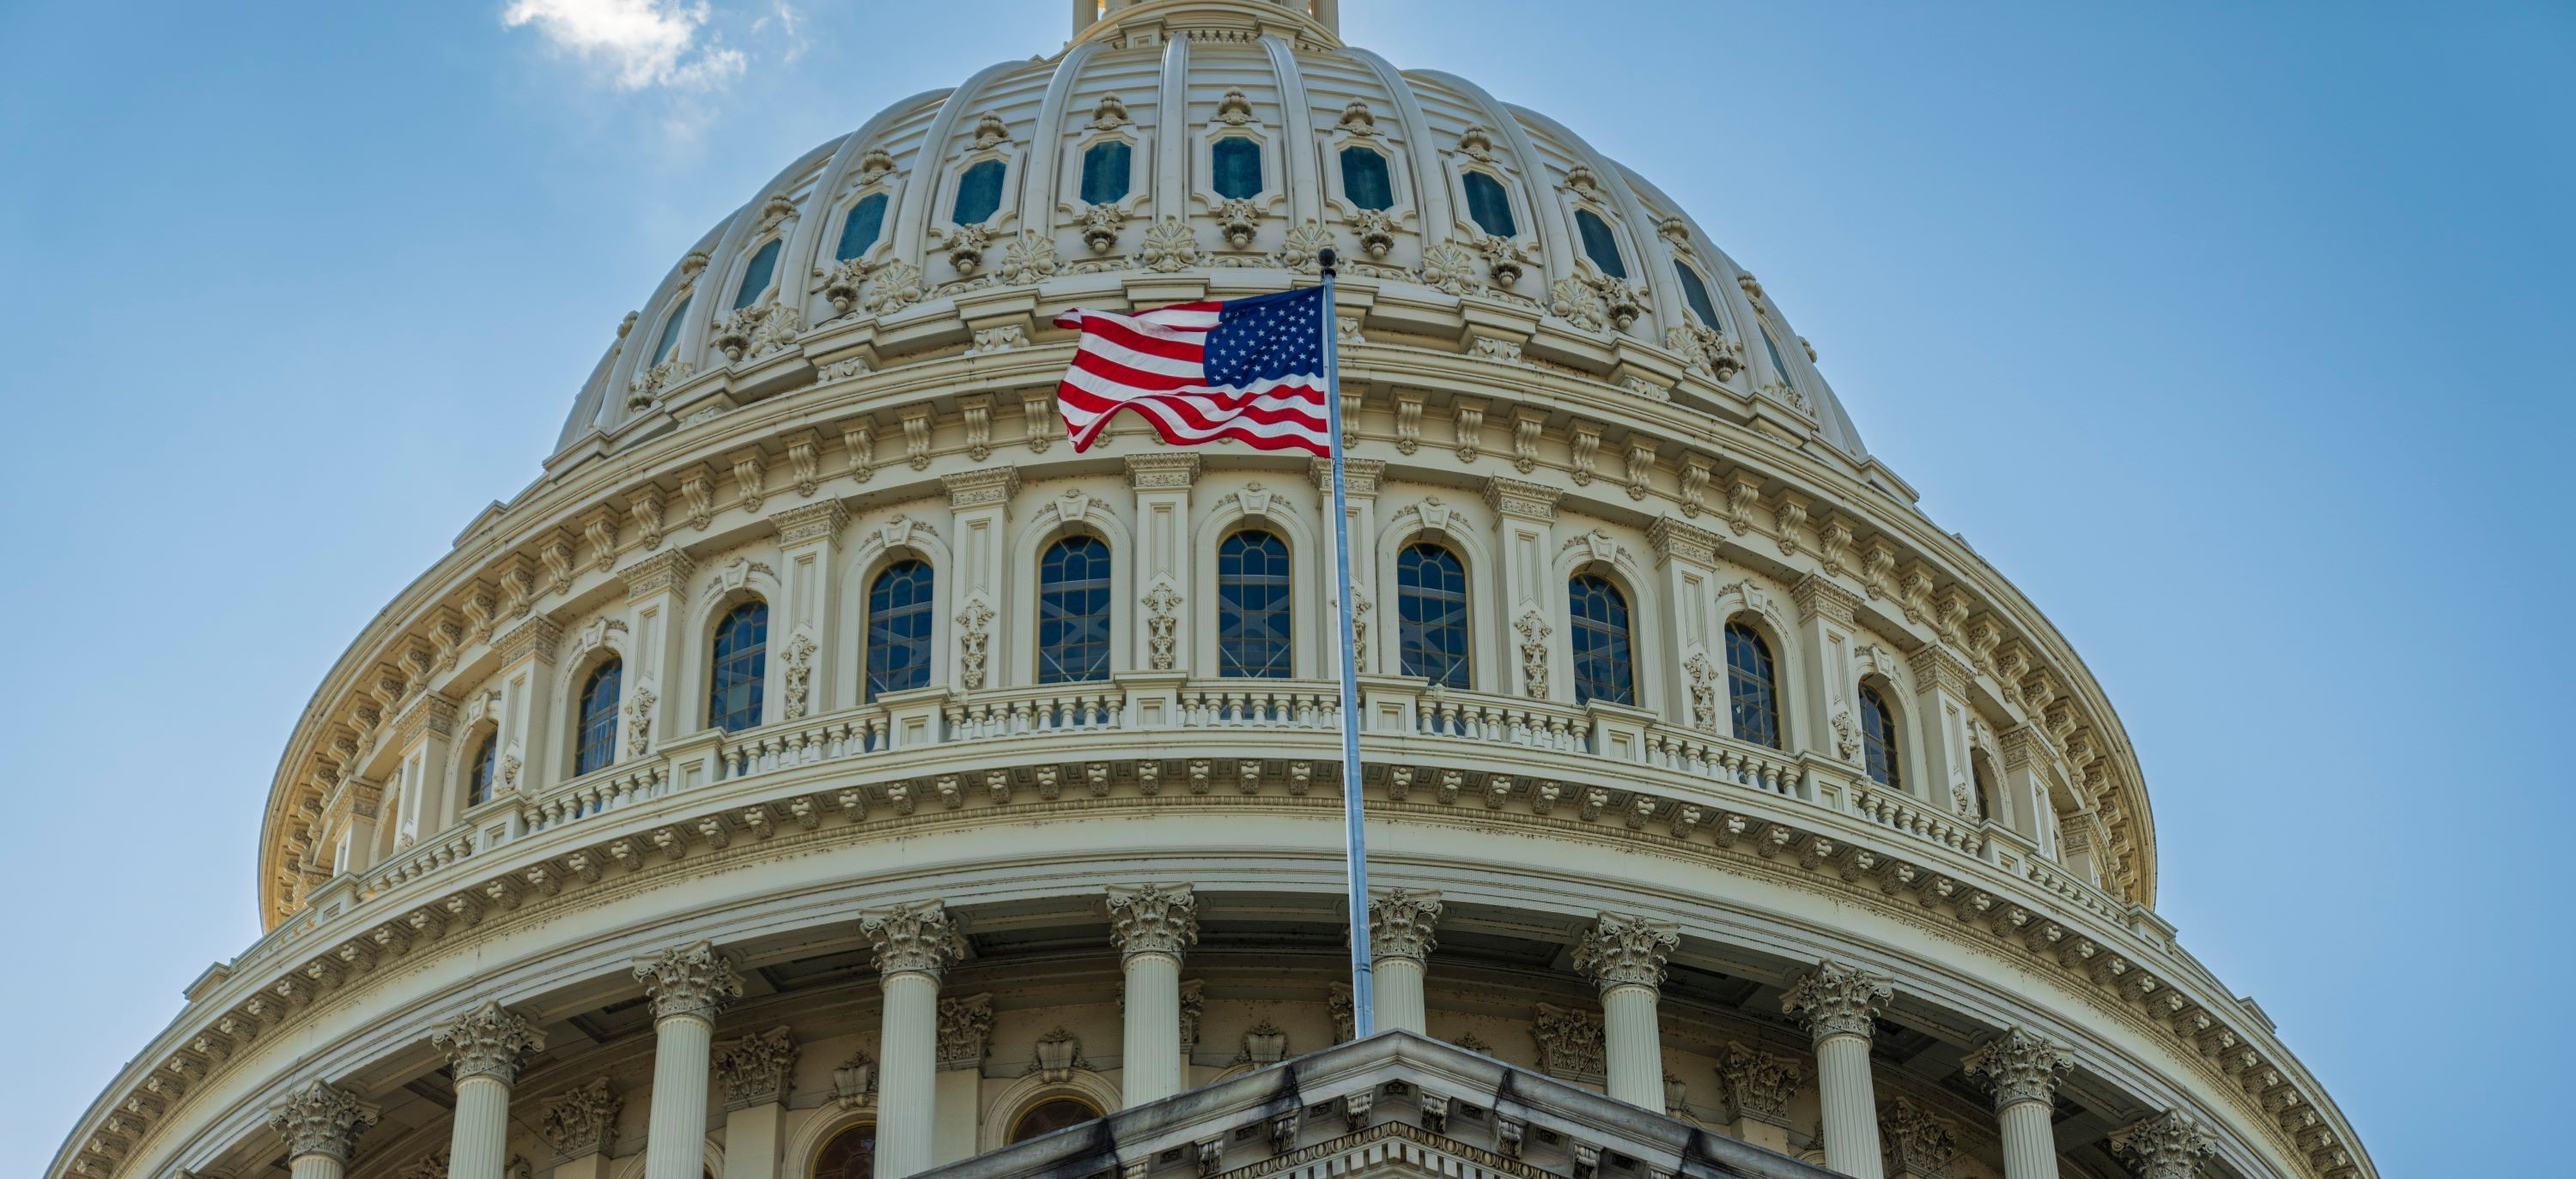
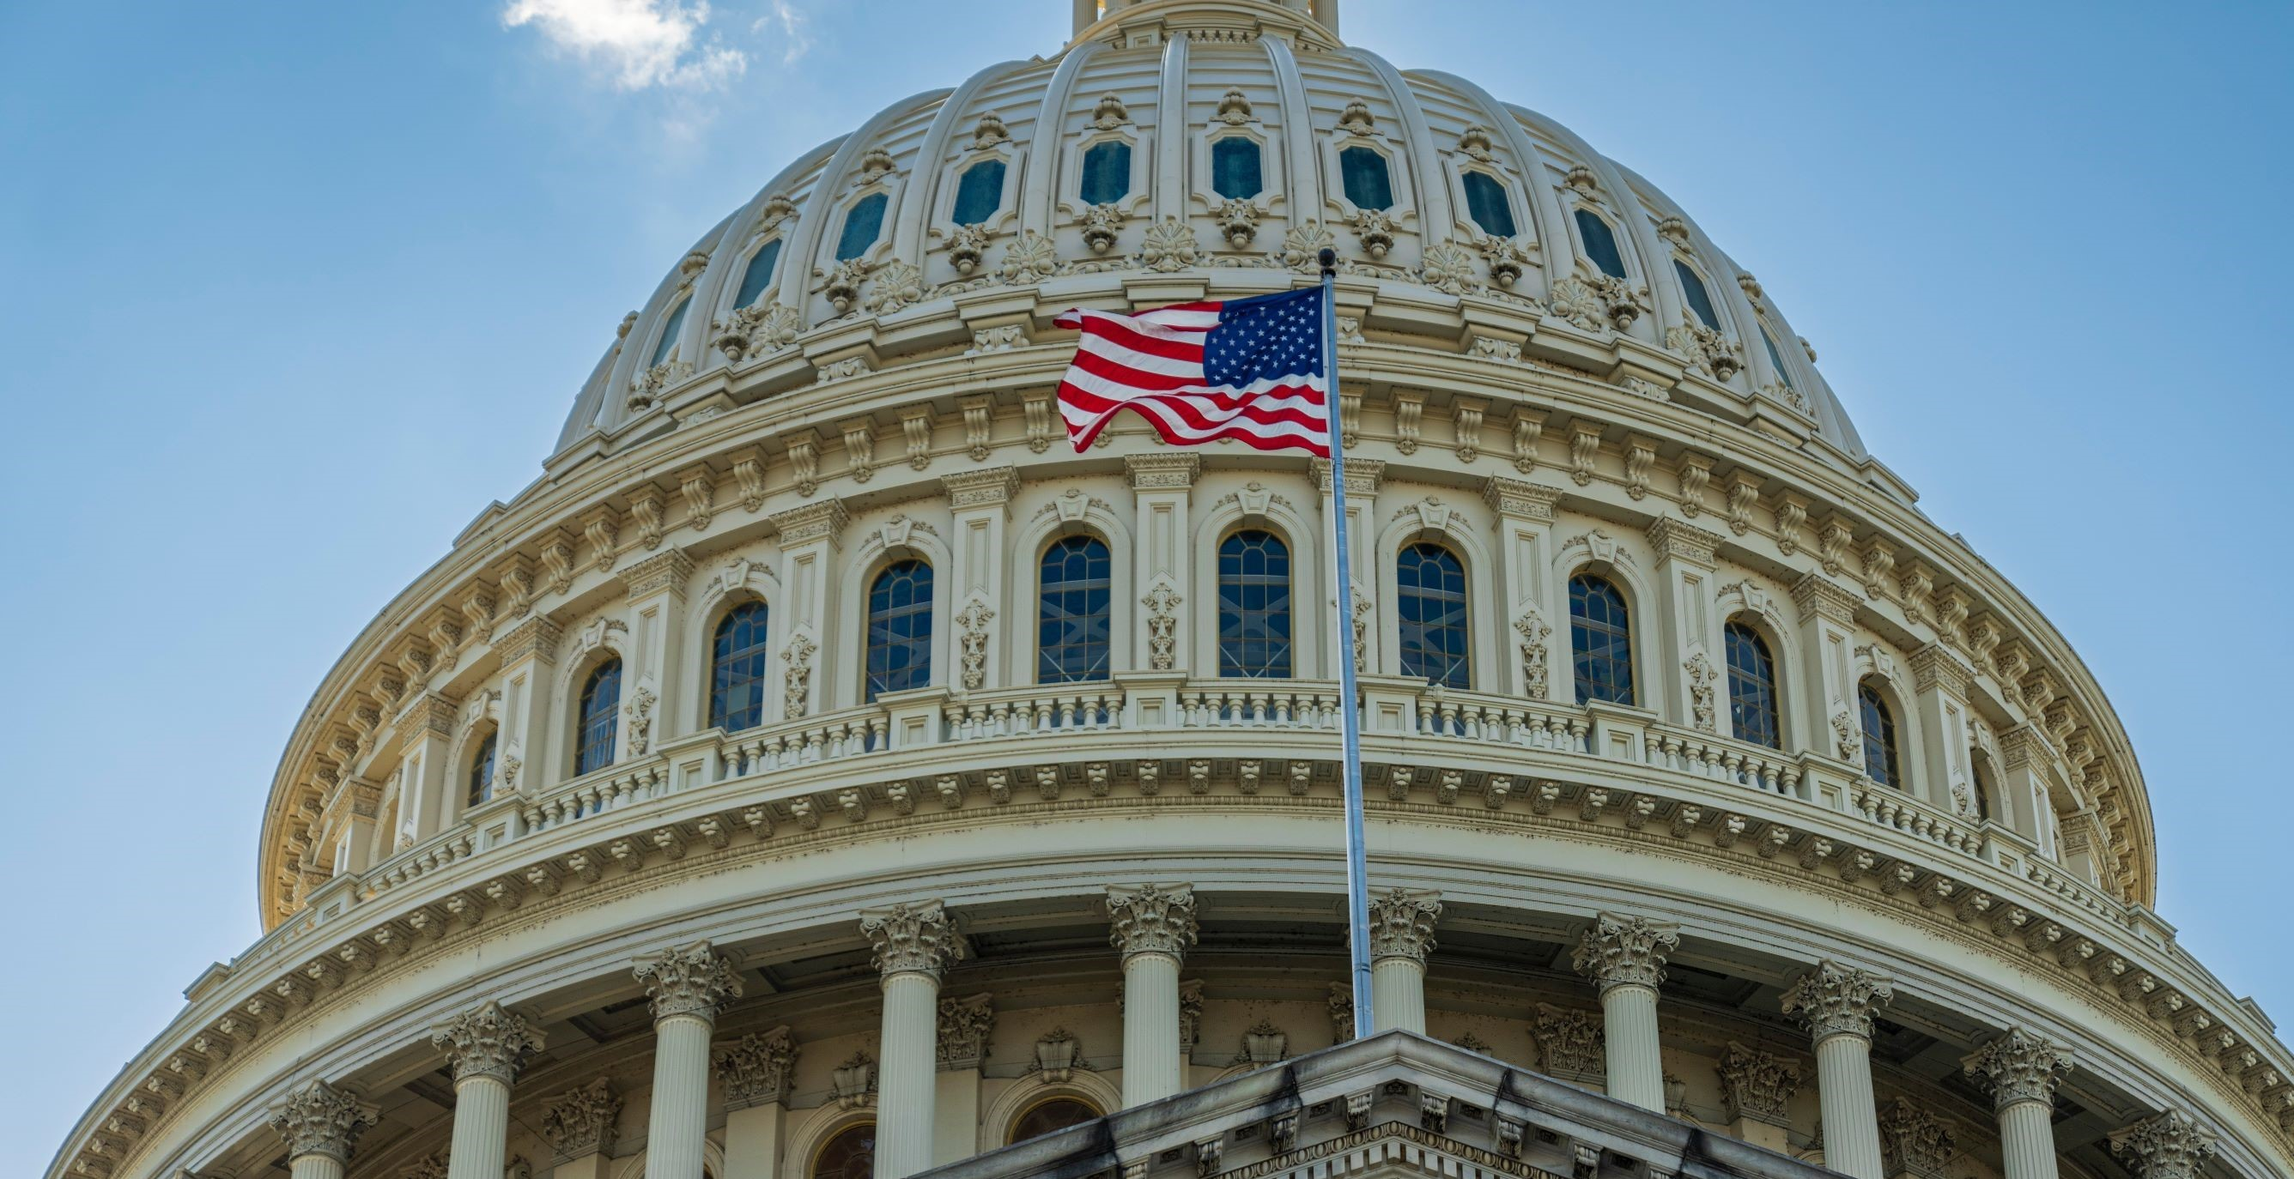
q2.23.16 us capitals game install

diff --git a/templates/uscapitals/uscapital.html b/templates/uscapitals/uscapital.html
@@ -565,7 +565,7 @@ window.addEventListener('load', function() {
     <link href="https://stackpath.bootstrapcdn.com/bootstrap/4.1.3/css/bootstrap.min.css" rel="stylesheet" integrity="sha384-MCw98/SFnGE8fJT3GXwEOngsV7Zt27NXFoaoApmYm81iuXoPkFOJwJ8ERdknLPMO" crossorigin="anonymous"/>
     <title>US Capitals</title>
    </head>
-<body class=".backgroundimg" style="background-image: url('{% static 'Images/capital.jpg' %}');">
+<body class=".backgroundimg" style="background-image: url('{% static 'Images/capital2.jpg' %}');">
    <div id="title" class=" d-none d-lg-block mt-5">
       <p><h1 id="titlesection" class="justify-content-center font-weight-bold mt-4">US Capitals</h1></p>
    </div>
